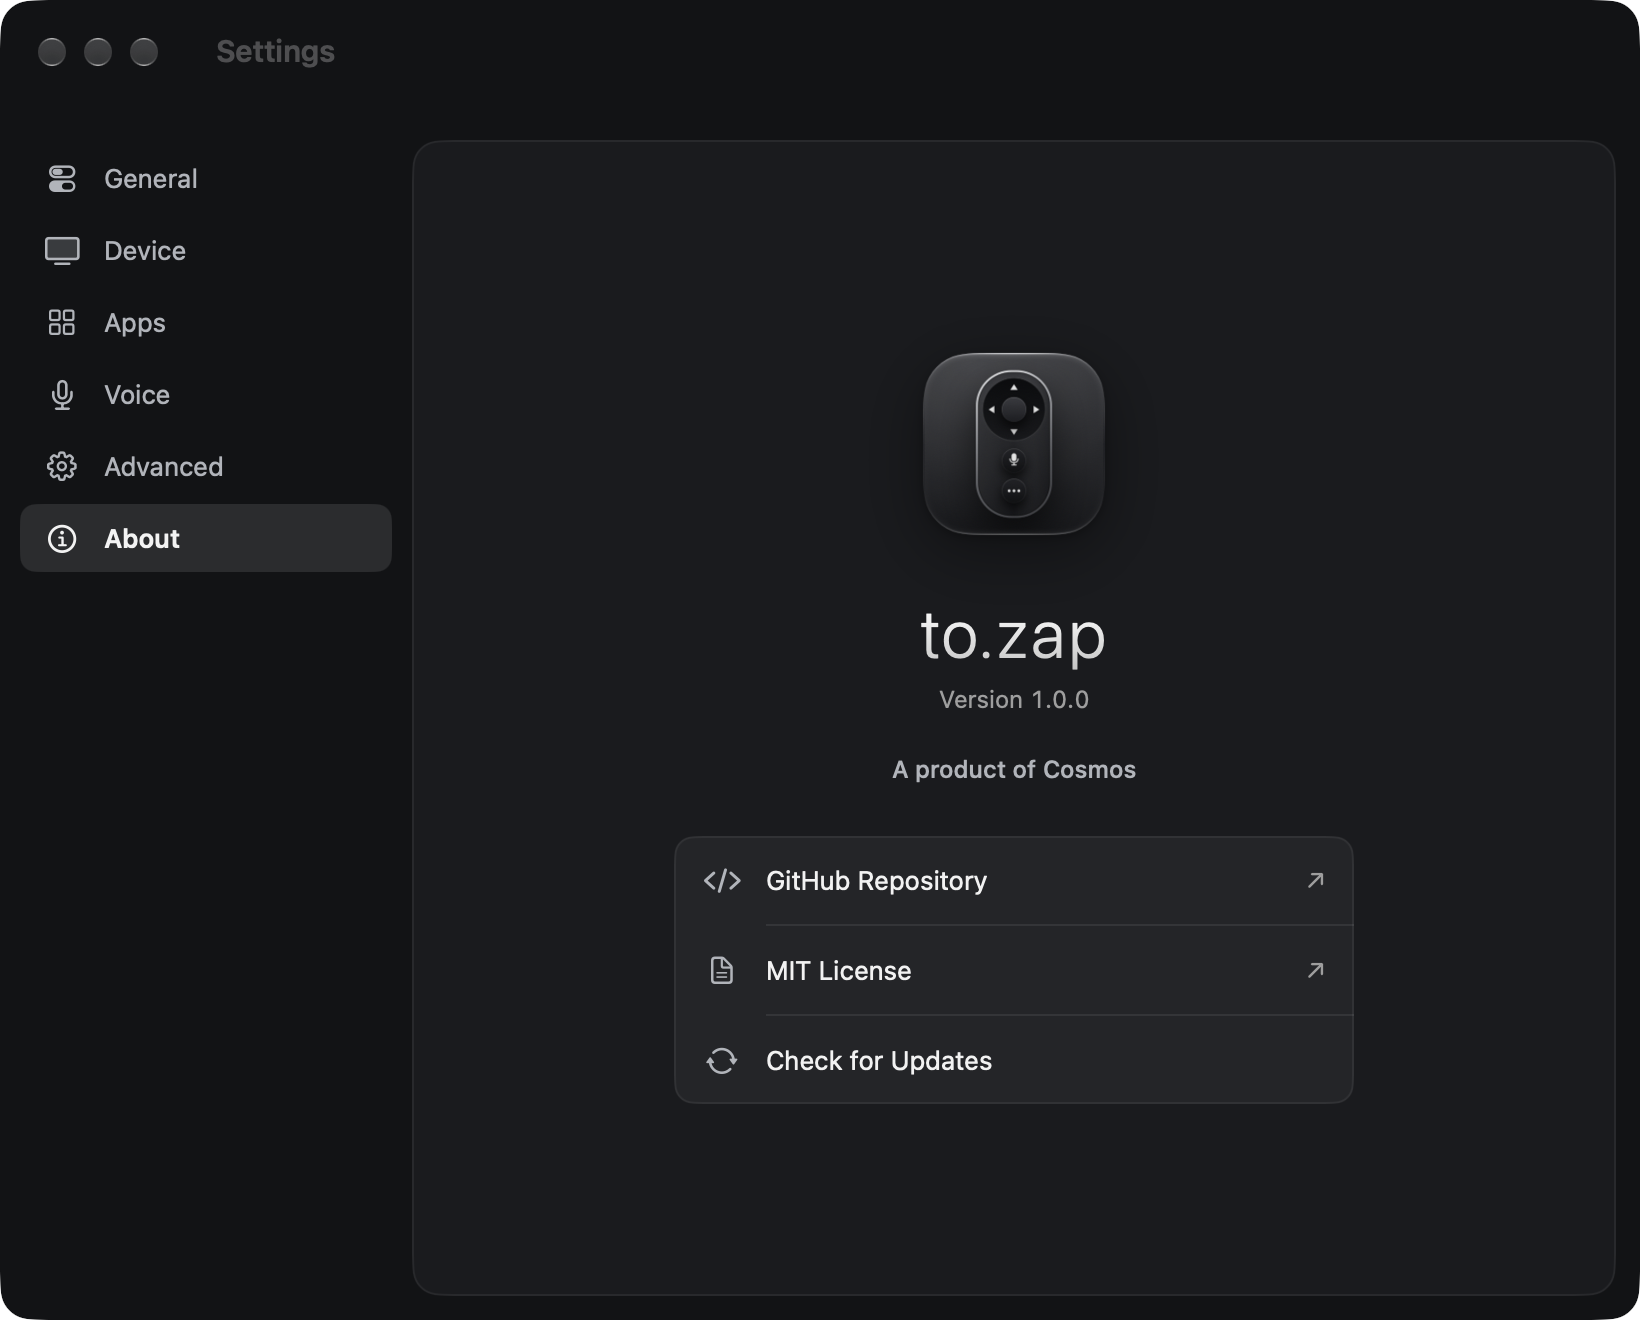
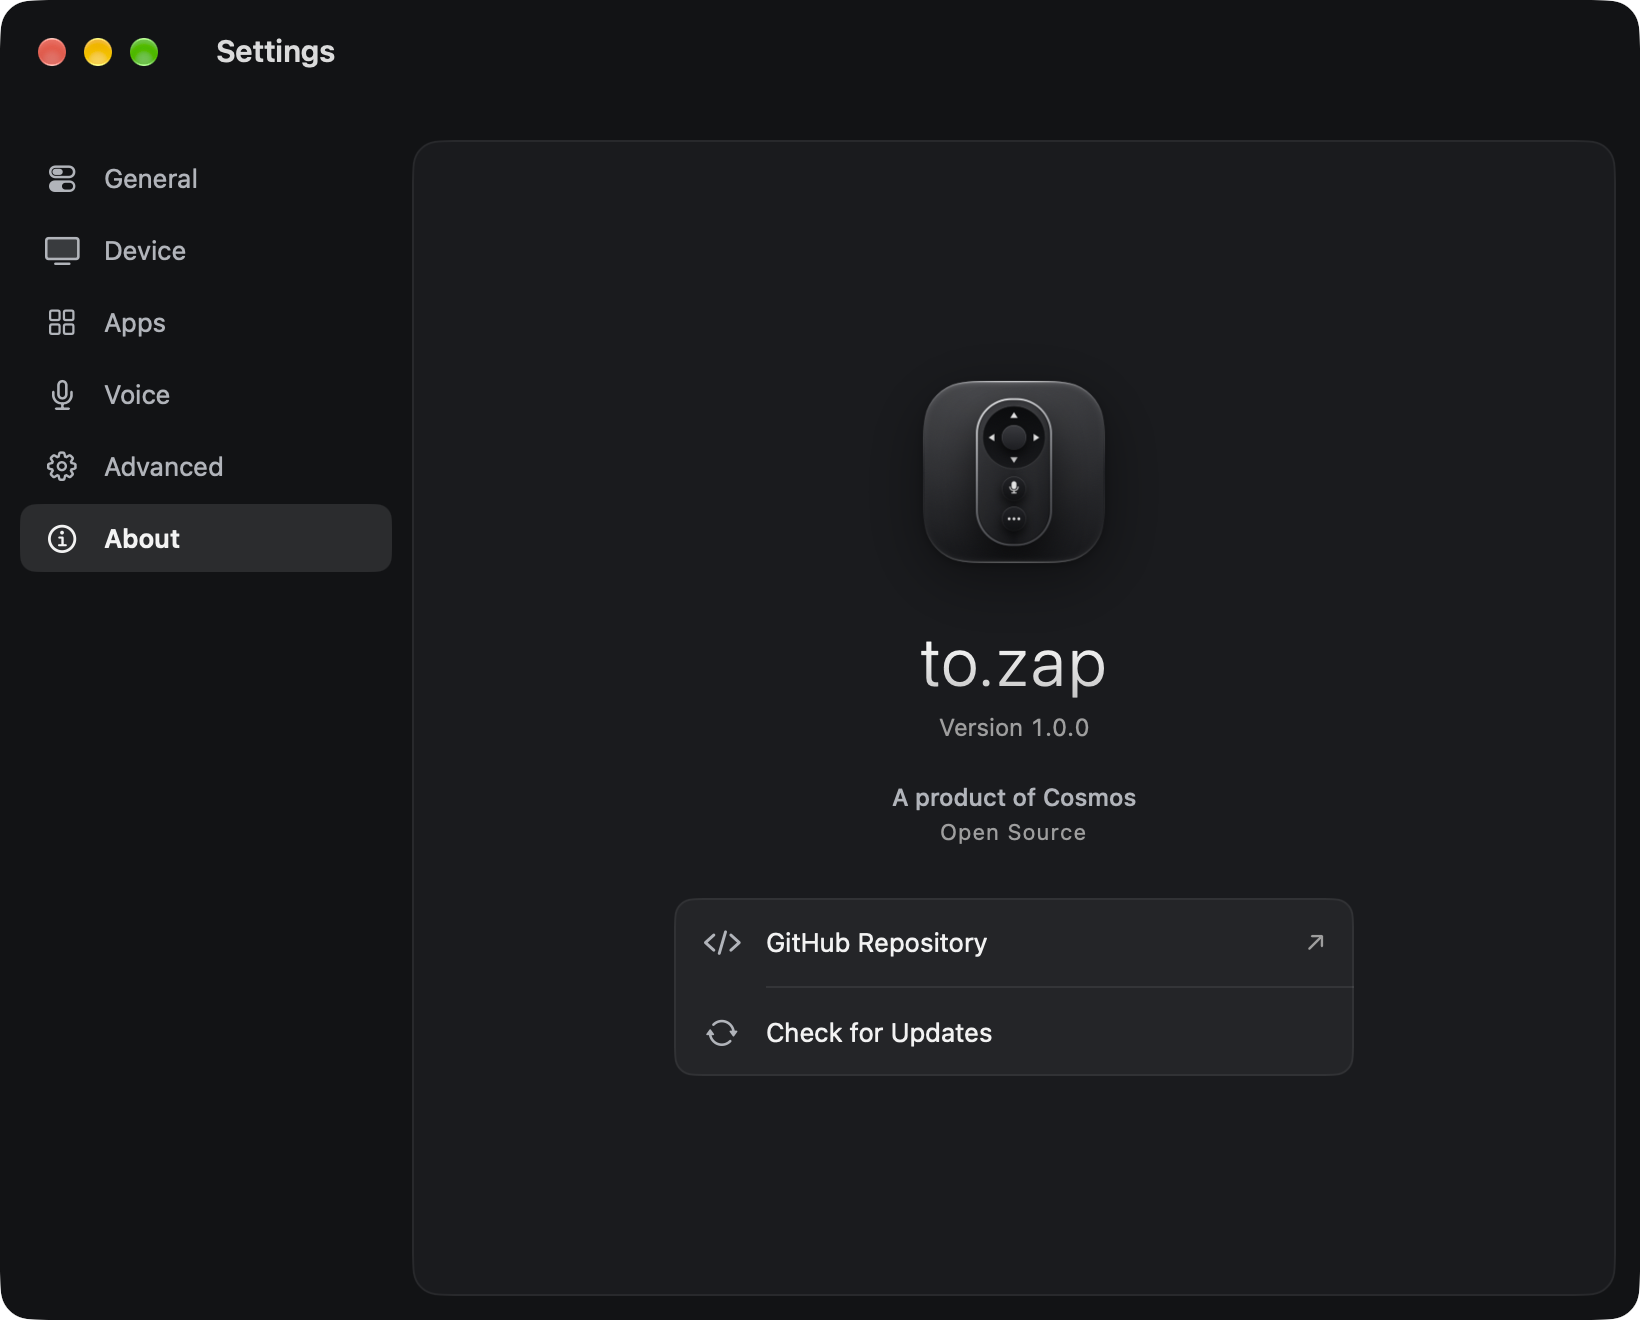
About as approved; no copyright line in Finder's info panel
- About again shows the icon, "to.zap", the version, "A product of Cosmos"
  and "Open Source", with GitHub Repository and Check for Updates only (the
  MIT License row is removed).
- NSHumanReadableCopyright is removed from Info.plist. LICENSE and
  THIRD_PARTY_NOTICES.md still ship inside the app bundle and in the
  repository; README keeps the non-affiliation and trademark notices.
- Test guards both; About screenshot retaken.

diff --git a/Sources/ZAP/SettingsPages.swift b/Sources/ZAP/SettingsPages.swift
@@ -878,12 +878,19 @@ private struct AboutIdentity: View {
     }
 }
 
-/// The product signature: small and quiet.
+/// The product signature: small and quiet, "Open Source" as a plain descriptor rather than a badge.
 private struct AboutSignature: View {
     var body: some View {
-        Text("A product of Cosmos")
-            .font(.system(size: 12, weight: .medium))
-            .foregroundStyle(DS.Palette.textSecondary)
+        VStack(spacing: 3) {
+            Text("A product of Cosmos")
+                .font(.system(size: 12, weight: .medium))
+                .foregroundStyle(DS.Palette.textSecondary)
+            Text("Open Source")
+                .font(.system(size: 11))
+                .tracking(0.5)
+                .foregroundStyle(DS.Palette.textTertiary)
+        }
+        .accessibilityElement(children: .combine)
     }
 }
 
@@ -896,13 +903,6 @@ private struct AboutActions: View {
                            accessory: .symbol("arrow.up.right"),
                            hint: "Opens to.zap's source code on GitHub in your browser.") {
                 NSWorkspace.shared.open(ZAPProject.repository)
-            }
-            SettingsDivider().padding(.leading, 46)
-            AboutActionRow(symbol: "doc.text", title: "MIT License",
-                           accessory: .symbol("arrow.up.right"),
-                           hint: "Opens the license text included with the app.") {
-                // The copy inside the app bundle, so it opens offline; the repository's copy otherwise.
-                NSWorkspace.shared.open(Bundle.main.url(forResource: "LICENSE", withExtension: nil) ?? ZAPProject.license)
             }
             SettingsDivider().padding(.leading, 46)
             AboutActionRow(symbol: "arrow.triangle.2.circlepath", title: "Check for Updates",

diff --git a/Tests/main.swift b/Tests/main.swift
@@ -249,6 +249,8 @@ if let plist = NSDictionary(contentsOfFile: "Resources/Info.plist") {
     check(plist["CFBundleName"] as? String == "to.zap" && plist["CFBundleDisplayName"] as? String == "to.zap"
           && plist["CFBundleExecutable"] as? String == "to.zap", "the product is named to.zap")
     check(PreferencesMigration.currentDomain == plist["CFBundleIdentifier"] as? String, "preferences migrate into the bundle identifier's domain")
+    check(plist["NSHumanReadableCopyright"] == nil,
+          "no copyright line in Finder's info panel; the license and notices ship as files in the bundle")
 } else {
     check(false, "Resources/Info.plist is readable")
 }

diff --git a/Sources/ZAPKit/UpdateChecker.swift b/Sources/ZAPKit/UpdateChecker.swift
@@ -4,7 +4,6 @@ import Foundation
 public enum ZAPProject {
     public static let repository = URL(string: "https://github.com/skiliz/tozap")!
     public static let releasesPage = URL(string: "https://github.com/skiliz/tozap/releases")!
-    public static let license = URL(string: "https://github.com/skiliz/tozap/blob/main/LICENSE")!
     /// The latest published full release: GitHub never returns drafts or prereleases here, and answers 404
     /// when there is none.
     public static let latestReleaseAPI = URL(string: "https://api.github.com/repos/skiliz/tozap/releases/latest")!

diff --git a/CHANGELOG.md b/CHANGELOG.md
@@ -38,8 +38,8 @@ First public release.
   - Launch at login uses macOS login items.
   - The menu bar icon can be hidden: open to.zap again to reach Settings.
   - Copy Summary copies a diagnostic summary with no personal data.
-  - About shows the app's icon, name, version and maker, with GitHub Repository, MIT License and Check for
-    Updates. The license and third-party notices ship inside the app bundle and in the repository.
+  - About shows the app's identity, version, the GitHub repository and Check for Updates. The license and
+    third-party notices ship inside the app bundle and in the repository.
 
 ### Security and privacy
 - **TLS to the TV:** always verified against the Amazon root pinned at pairing. Pairing accepts only the

diff --git a/PRIVACY.md b/PRIVACY.md
@@ -46,8 +46,7 @@ Nothing is downloaded or installed: if a newer version exists, to.zap shows it a
 browser only if you ask. To check whether to.zap was installed with Homebrew, to.zap looks for Homebrew's
 `Caskroom/tozap-remote` folder on your Mac; nothing about it is sent anywhere.
 
-**GitHub Repository** simply opens to.zap's page on github.com in your browser. **MIT License** opens the license
-file included in the app, on your Mac.
+**GitHub Repository** simply opens to.zap's page on github.com in your browser.
 
 ## Microphone
 
